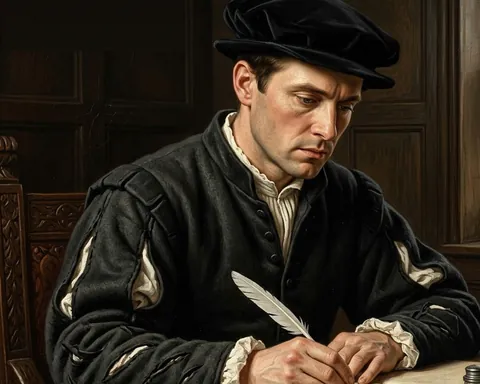
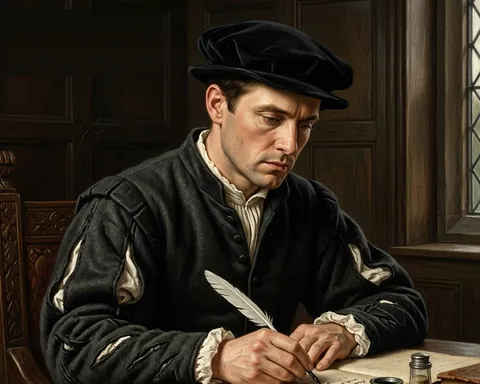
Daily MCQ page: pictures for Edwardian, Georgian and Postmodern; heads no longer cut
- Add edwardian, georgian and postmodern tiles (480x384, 5:4); the Postmodern
  collage keeps its typewriter and its flock of birds, the generator's mark in
  its corner is painted out of the grey wash
- Re-cut the tiles whose 5:4 crop took the top off a head: the Anglo-Saxon and
  Anglo-Norman helmets and the Early Tudor cap were clipped, the Commonwealth hat
  sat on the edge. Every tile now keeps the whole head with room above it
- Every one of the 23 cards now has a picture (13 scenes, 10 portraits)

diff --git a/quizzes/daily/index.html b/quizzes/daily/index.html
@@ -170,11 +170,12 @@
        on a phone it is a row, with the picture at the right.
        The pictures are in /assets/topics/. Portraits on a white ground blend into the panel
        (the plain .dq-pic); a painted scene with its own background fills the panel
-       (class "dq-pic is-tile"). Ten cards use tiles: Anglo-Saxon, Anglo-Norman, Fifteenth Century,
-       Early Tudor, Jacobean, Commonwealth, Caroline, Restoration Age, Augustan Age and Age of
-       Sensibility. They are 480 by 384 (5 to 4, the shape of the panel) crops of the supplied
-       scenes, with the Latin caption on the Norman one and the date and rose on the Tudor one
-       painted out, and the generator's mark and the signature cropped off.
+       (class "dq-pic is-tile"). Thirteen cards use tiles: every age from Anglo-Saxon to Postmodern
+       except Age of Chaucer, Renaissance, Elizabethan, Neoclassical, Romantic, Victorian and Modern,
+       which keep their portraits. A tile is a 480 by 384 (5 to 4, the shape of the panel) crop of a
+       supplied scene. Each crop keeps the whole head with room above it (check this for a new
+       one), has the Latin caption on the Norman scene and the date and rose on the Tudor scene
+       painted out, and has the generator's mark and the signature cropped or painted out.
        Small pictures (the portraits are only about 130px) look soft in the big panel;
        a picture of 500px or more across looks sharp.
 -->
@@ -390,7 +391,7 @@
 
     <article class="dq-card t-sand is-soon" data-period="edwardian">
       <div class="dq-art">
-        <span class="dq-ph" aria-hidden="true"></span>
+        <img class="dq-pic is-tile" src="/assets/topics/edwardian.webp" alt="" width="480" height="384" loading="lazy">
       </div>
       <div class="dq-text">
         <h3 class="dq-title">Edwardian Period</h3>
@@ -401,7 +402,7 @@
 
     <article class="dq-card t-sage is-soon" data-period="georgian">
       <div class="dq-art">
-        <span class="dq-ph" aria-hidden="true"></span>
+        <img class="dq-pic is-tile" src="/assets/topics/georgian.webp" alt="" width="480" height="384" loading="lazy">
       </div>
       <div class="dq-text">
         <h3 class="dq-title">Georgian Period</h3>
@@ -423,7 +424,7 @@
 
     <article class="dq-card t-lilac is-soon" data-period="postmodern">
       <div class="dq-art">
-        <span class="dq-ph" aria-hidden="true"></span>
+        <img class="dq-pic is-tile" src="/assets/topics/postmodern.webp" alt="" width="480" height="384" loading="lazy">
       </div>
       <div class="dq-text">
         <h3 class="dq-title">Postmodern Period</h3>
